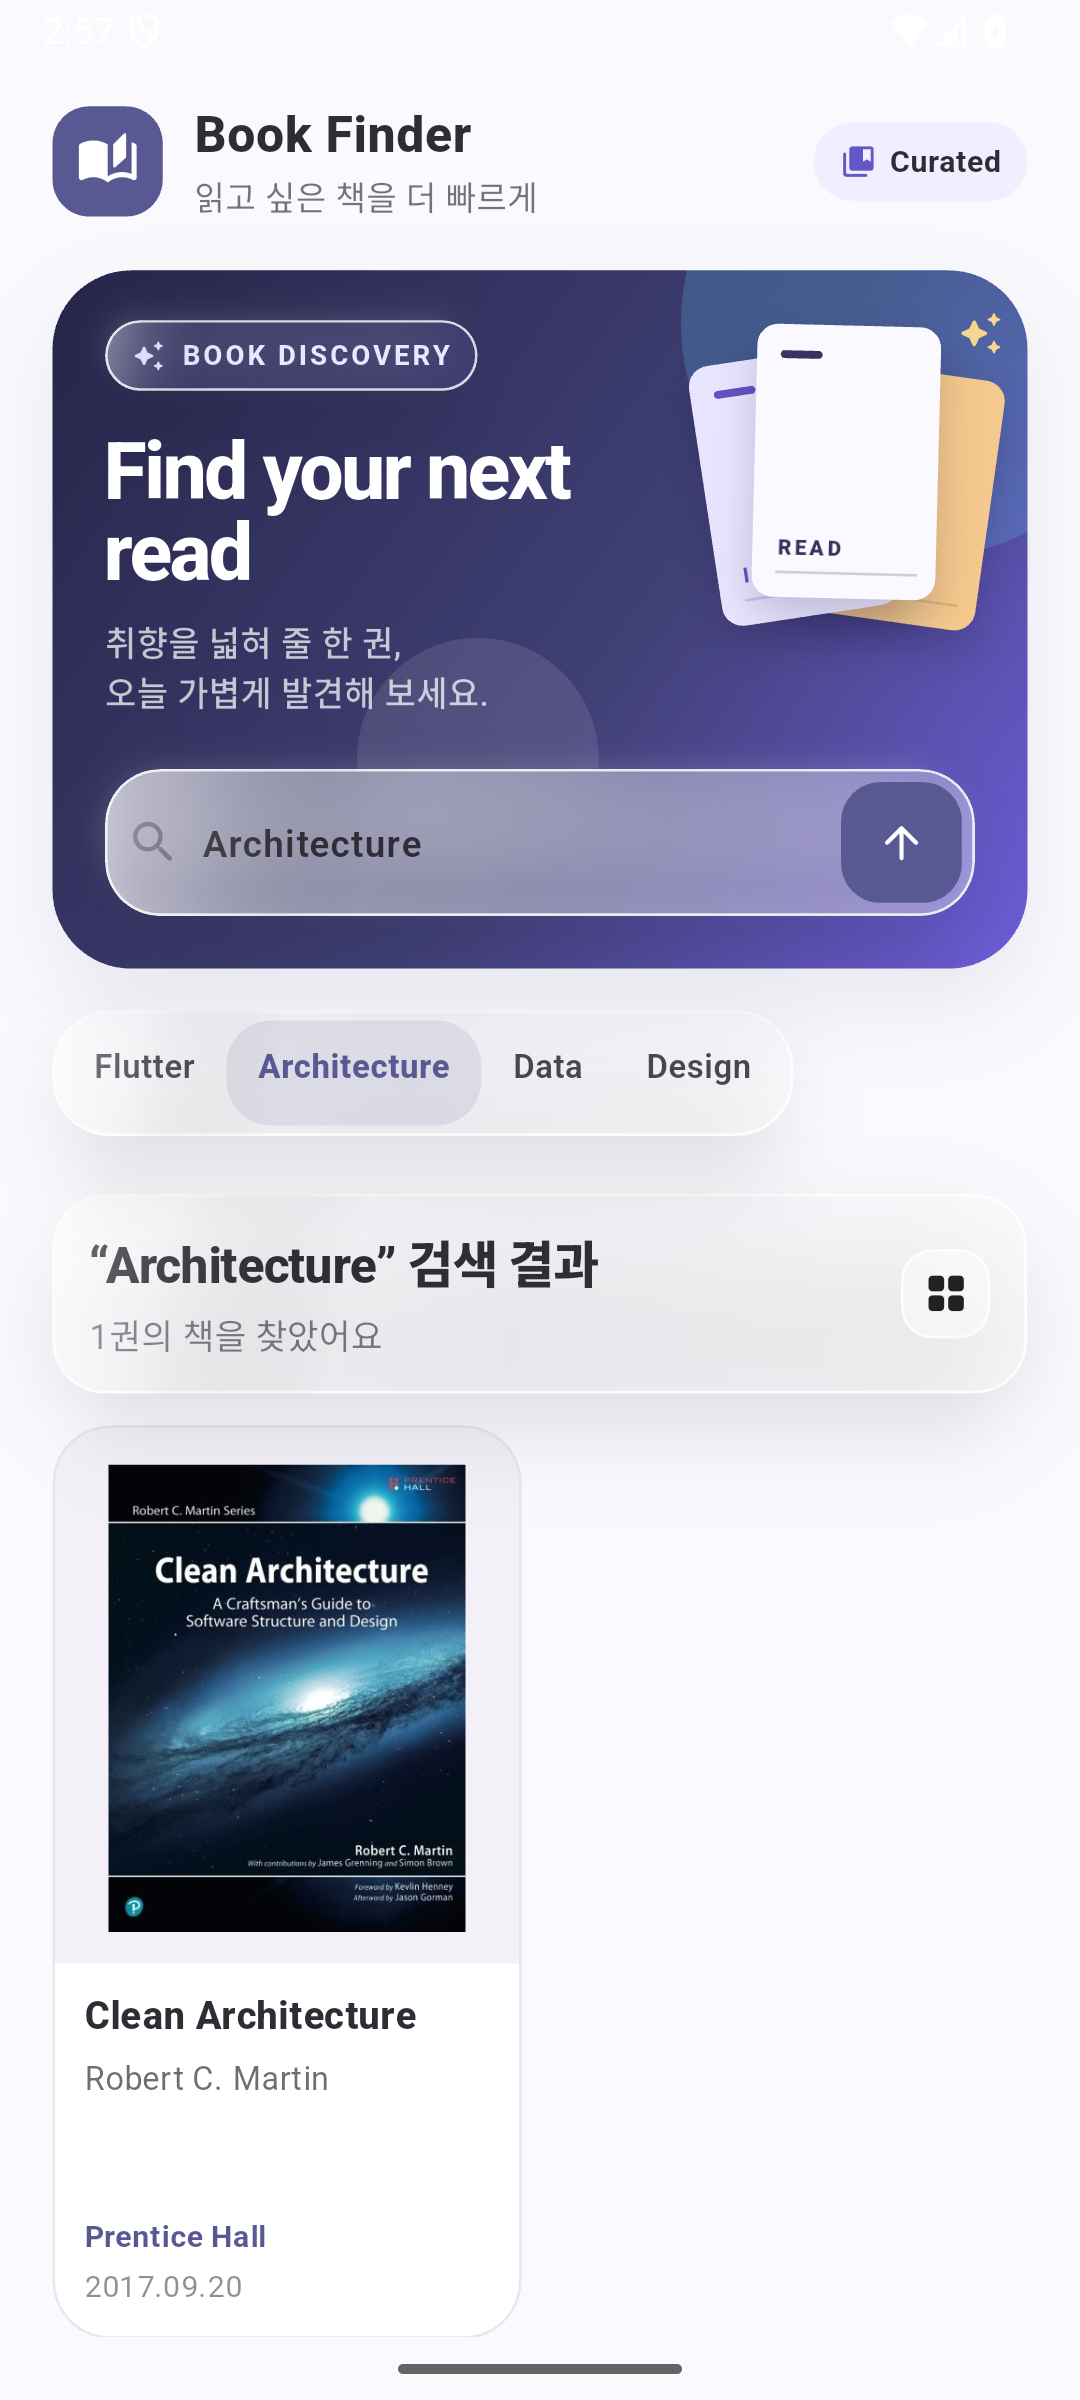
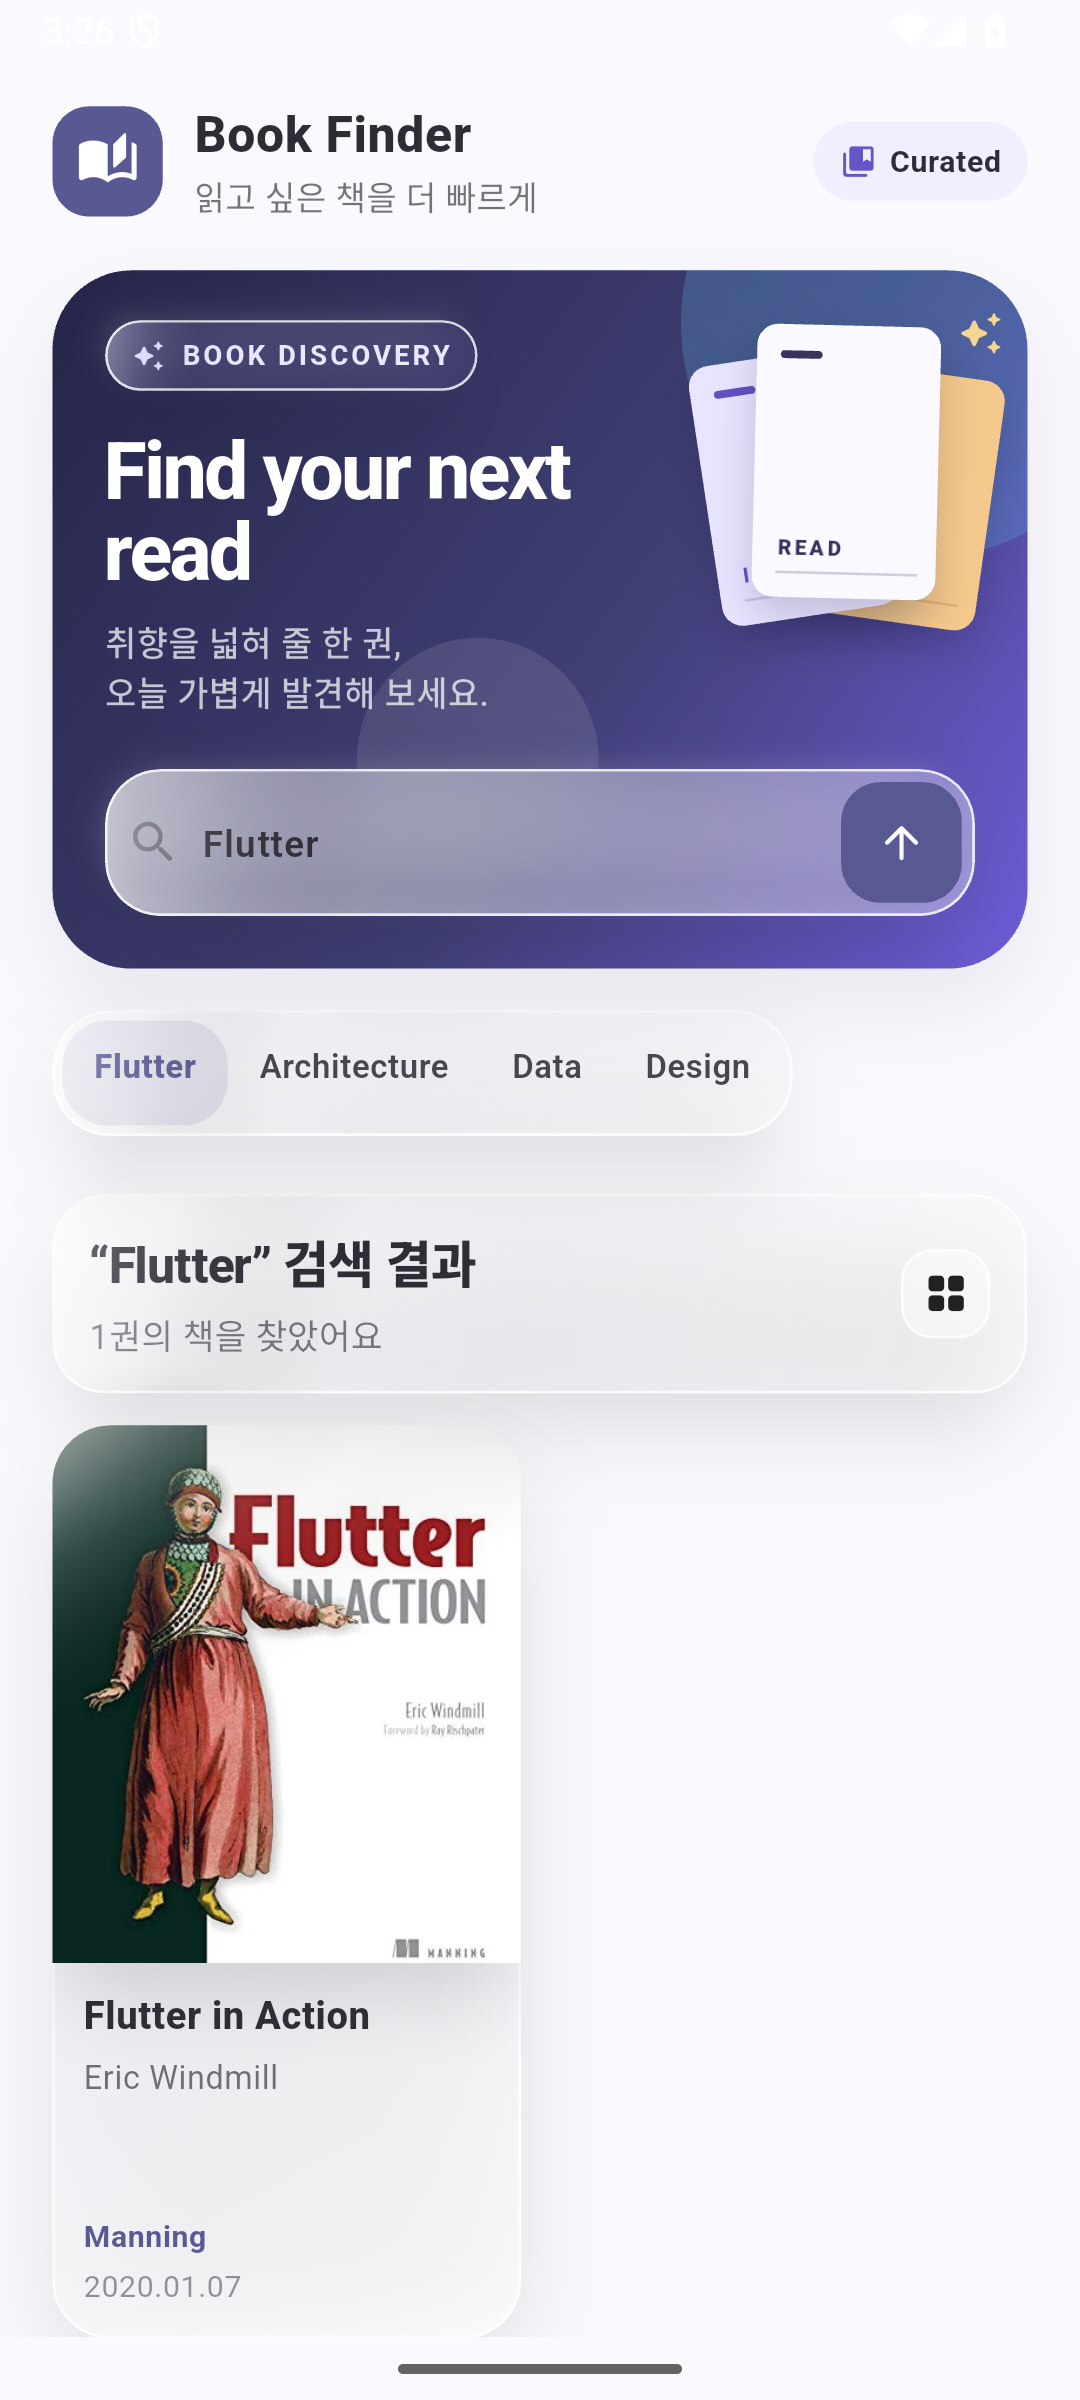
Refine book covers with liquid glass

diff --git a/lib/ui/pages/home/home_page.dart b/lib/ui/pages/home/home_page.dart
@@ -564,71 +564,72 @@ class _BookCard extends StatelessWidget {
 
   @override
   Widget build(BuildContext context) {
-    return Card(
-      child: InkWell(
-        onTap: onTap,
-        borderRadius: BorderRadius.circular(22),
-        child: Column(
-          crossAxisAlignment: CrossAxisAlignment.stretch,
-          children: [
-            SizedBox(
-              height: 205,
-              child: Hero(
-                tag: 'book-cover-${book.isbn}-${book.title}',
-                child: _BookCover(book: book, index: index),
+    return AppGlassSurface(
+      onTap: onTap,
+      semanticLabel: '${book.title}, ${book.author}',
+      borderRadius: BorderRadius.circular(22),
+      blurSigma: 18,
+      surfaceOpacity: .66,
+      child: Column(
+        crossAxisAlignment: CrossAxisAlignment.stretch,
+        children: [
+          SizedBox(
+            height: 205,
+            child: Hero(
+              tag: 'book-cover-${book.isbn}-${book.title}',
+              child: _BookCover(book: book, index: index),
+            ),
+          ),
+          Expanded(
+            child: Padding(
+              padding: const EdgeInsets.fromLTRB(12, 11, 12, 12),
+              child: Column(
+                crossAxisAlignment: CrossAxisAlignment.start,
+                children: [
+                  Text(
+                    book.title,
+                    maxLines: 2,
+                    overflow: TextOverflow.ellipsis,
+                    style: const TextStyle(
+                      fontSize: 14.5,
+                      height: 1.22,
+                      fontWeight: FontWeight.w800,
+                    ),
+                  ),
+                  const SizedBox(height: 6),
+                  Text(
+                    book.author,
+                    maxLines: 1,
+                    overflow: TextOverflow.ellipsis,
+                    style: const TextStyle(
+                      fontSize: 12.3,
+                      color: Color(0xFF706C77),
+                    ),
+                  ),
+                  const Spacer(),
+                  Text(
+                    book.publisher,
+                    maxLines: 1,
+                    overflow: TextOverflow.ellipsis,
+                    style: TextStyle(
+                      fontSize: 11.5,
+                      color: Theme.of(context).colorScheme.primary,
+                      fontWeight: FontWeight.w700,
+                    ),
+                  ),
+                  const SizedBox(height: 3),
+                  Text(
+                    book.publicationLabel,
+                    style: const TextStyle(
+                      fontSize: 11.5,
+                      color: Color(0xFF928D98),
+                    ),
+                  ),
+                ],
               ),
             ),
-            Expanded(
-              child: Padding(
-                padding: const EdgeInsets.fromLTRB(12, 11, 12, 12),
-                child: Column(
-                  crossAxisAlignment: CrossAxisAlignment.start,
-                  children: [
-                    Text(
-                      book.title,
-                      maxLines: 2,
-                      overflow: TextOverflow.ellipsis,
-                      style: const TextStyle(
-                        fontSize: 14.5,
-                        height: 1.22,
-                        fontWeight: FontWeight.w800,
-                      ),
-                    ),
-                    const SizedBox(height: 6),
-                    Text(
-                      book.author,
-                      maxLines: 1,
-                      overflow: TextOverflow.ellipsis,
-                      style: const TextStyle(
-                        fontSize: 12.3,
-                        color: Color(0xFF706C77),
-                      ),
-                    ),
-                    const Spacer(),
-                    Text(
-                      book.publisher,
-                      maxLines: 1,
-                      overflow: TextOverflow.ellipsis,
-                      style: TextStyle(
-                        fontSize: 11.5,
-                        color: Theme.of(context).colorScheme.primary,
-                        fontWeight: FontWeight.w700,
-                      ),
-                    ),
-                    const SizedBox(height: 3),
-                    Text(
-                      book.publicationLabel,
-                      style: const TextStyle(
-                        fontSize: 11.5,
-                        color: Color(0xFF928D98),
-                      ),
-                    ),
-                  ],
-                ),
-              ),
-            ),
-          ],
-        ),
+          ),
+        ],
       ),
     );
   }
@@ -646,20 +647,20 @@ class _BookCover extends StatelessWidget {
         ? _placeholder(context)
         : Image.network(
             book.image,
-            fit: BoxFit.contain,
-            filterQuality: FilterQuality.medium,
+            width: double.infinity,
+            height: double.infinity,
+            fit: BoxFit.cover,
+            filterQuality: FilterQuality.high,
             loadingBuilder: (context, child, progress) =>
                 progress == null ? child : _placeholder(context),
             errorBuilder: (_, __, ___) => _placeholder(context),
           );
 
-    return Container(
-      alignment: Alignment.center,
-      padding: const EdgeInsets.fromLTRB(15, 15, 15, 12),
-      decoration: const BoxDecoration(
-        color: Color(0xFFF3F1F7),
-        borderRadius: BorderRadius.vertical(top: Radius.circular(21)),
-      ),
+    return AppGlassSurface(
+      tint: const Color(0xFFF3F0FF),
+      surfaceOpacity: .56,
+      blurSigma: 18,
+      borderRadius: const BorderRadius.vertical(top: Radius.circular(21)),
       child: child,
     );
   }
@@ -673,28 +674,17 @@ class _BookCover extends StatelessWidget {
     ];
     final color = palette[index % palette.length];
 
-    return AspectRatio(
-      aspectRatio: 0.68,
+    return SizedBox.expand(
       child: DecoratedBox(
-        decoration: BoxDecoration(
-          color: color,
-          borderRadius: BorderRadius.circular(8),
-          boxShadow: const [
-            BoxShadow(
-              blurRadius: 9,
-              offset: Offset(0, 5),
-              color: Color(0x26000000),
-            ),
-          ],
-        ),
+        decoration: BoxDecoration(color: color),
         child: Padding(
-          padding: const EdgeInsets.all(12),
+          padding: const EdgeInsets.all(16),
           child: Column(
             mainAxisAlignment: MainAxisAlignment.center,
             children: [
               const Icon(Icons.menu_book_rounded,
-                  color: Colors.white, size: 32),
-              const SizedBox(height: 10),
+                  color: Colors.white, size: 36),
+              const SizedBox(height: 12),
               Text(
                 book.title,
                 maxLines: 4,
@@ -702,7 +692,7 @@ class _BookCover extends StatelessWidget {
                 textAlign: TextAlign.center,
                 style: const TextStyle(
                   color: Colors.white,
-                  fontSize: 11.5,
+                  fontSize: 12,
                   fontWeight: FontWeight.w800,
                 ),
               ),

diff --git a/lib/ui/pages/detail/detail_page.dart b/lib/ui/pages/detail/detail_page.dart
@@ -27,16 +27,16 @@ class DetailPage extends StatelessWidget {
                   padding: const EdgeInsets.fromLTRB(20, 8, 20, 28),
                   sliver: SliverList.list(
                     children: [
-                      Container(
-                        padding: const EdgeInsets.symmetric(vertical: 26),
-                        decoration: BoxDecoration(
-                          color: const Color(0xFFF0EEF6),
-                          borderRadius: BorderRadius.circular(28),
-                        ),
+                      AppGlassSurface(
+                        tint: const Color(0xFFF2EEFF),
+                        surfaceOpacity: .62,
+                        blurSigma: 22,
+                        borderRadius: BorderRadius.circular(28),
+                        padding: const EdgeInsets.symmetric(vertical: 18),
                         child: Center(
                           child: SizedBox(
-                            width: 164,
-                            height: 238,
+                            width: 196,
+                            height: 284,
                             child: Hero(
                               tag: 'book-cover-${book.isbn}-${book.title}',
                               child: _DetailCover(book: book),
@@ -291,19 +291,18 @@ class _DetailCover extends StatelessWidget {
         ],
       ),
       child: ClipRRect(
-        borderRadius: BorderRadius.circular(10),
+        borderRadius: BorderRadius.circular(14),
         child: book.image.isEmpty
             ? placeholder
-            : ColoredBox(
-                color: Colors.white,
-                child: Image.network(
-                  book.image,
-                  fit: BoxFit.contain,
-                  filterQuality: FilterQuality.high,
-                  loadingBuilder: (context, child, progress) =>
-                      progress == null ? child : placeholder,
-                  errorBuilder: (_, __, ___) => placeholder,
-                ),
+            : Image.network(
+                book.image,
+                width: double.infinity,
+                height: double.infinity,
+                fit: BoxFit.cover,
+                filterQuality: FilterQuality.high,
+                loadingBuilder: (context, child, progress) =>
+                    progress == null ? child : placeholder,
+                errorBuilder: (_, __, ___) => placeholder,
               ),
       ),
     );

diff --git a/lib/v2/v2_glass.dart b/lib/v2/v2_glass.dart
@@ -55,6 +55,8 @@ class AppGlassSurface extends StatelessWidget {
     this.blurSigma = 18,
     this.tint,
     this.surfaceOpacity,
+    this.onTap,
+    this.semanticLabel,
   });
 
   final Widget child;
@@ -62,6 +64,8 @@ class AppGlassSurface extends StatelessWidget {
   final BorderRadius borderRadius;
   final double blurSigma;
   final Color? tint;
+  final VoidCallback? onTap;
+  final String? semanticLabel;
 
   /// Optional local density override for content-heavy glass surfaces.
   ///
@@ -92,6 +96,18 @@ class AppGlassSurface extends StatelessWidget {
             ? (dark ? .42 : .28)
             : (middleAlpha - .08).clamp(.0, 1.0);
 
+    Widget content = Padding(padding: padding, child: child);
+    if (onTap != null) {
+      content = Material(
+        color: Colors.transparent,
+        child: InkWell(
+          onTap: onTap,
+          borderRadius: borderRadius,
+          child: content,
+        ),
+      );
+    }
+
     final body = Stack(
       fit: StackFit.passthrough,
       children: [
@@ -115,7 +131,7 @@ class AppGlassSurface extends StatelessWidget {
               width: 1,
             ),
           ),
-          child: Padding(padding: padding, child: child),
+          child: content,
         ),
         Positioned.fill(
           child: IgnorePointer(
@@ -152,7 +168,7 @@ class AppGlassSurface extends StatelessWidget {
             ),
     );
 
-    return DecoratedBox(
+    final glass = DecoratedBox(
       decoration: BoxDecoration(
         borderRadius: borderRadius,
         boxShadow: [
@@ -172,6 +188,9 @@ class AppGlassSurface extends StatelessWidget {
       ),
       child: clipped,
     );
+
+    if (semanticLabel == null) return glass;
+    return Semantics(label: semanticLabel, button: onTap != null, child: glass);
   }
 }
 
